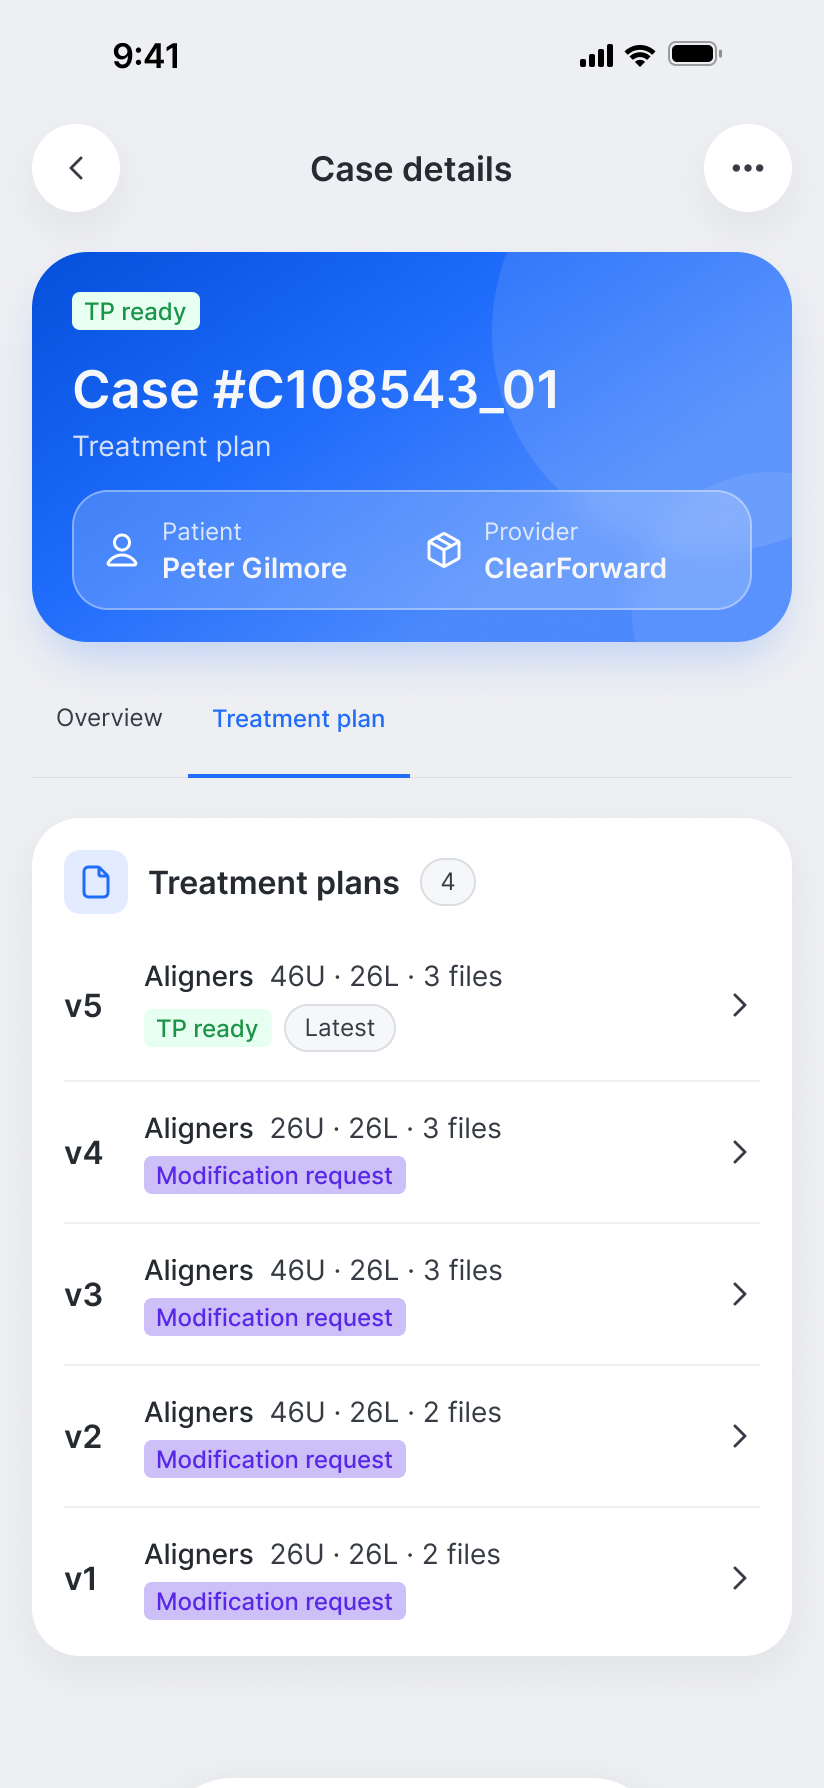
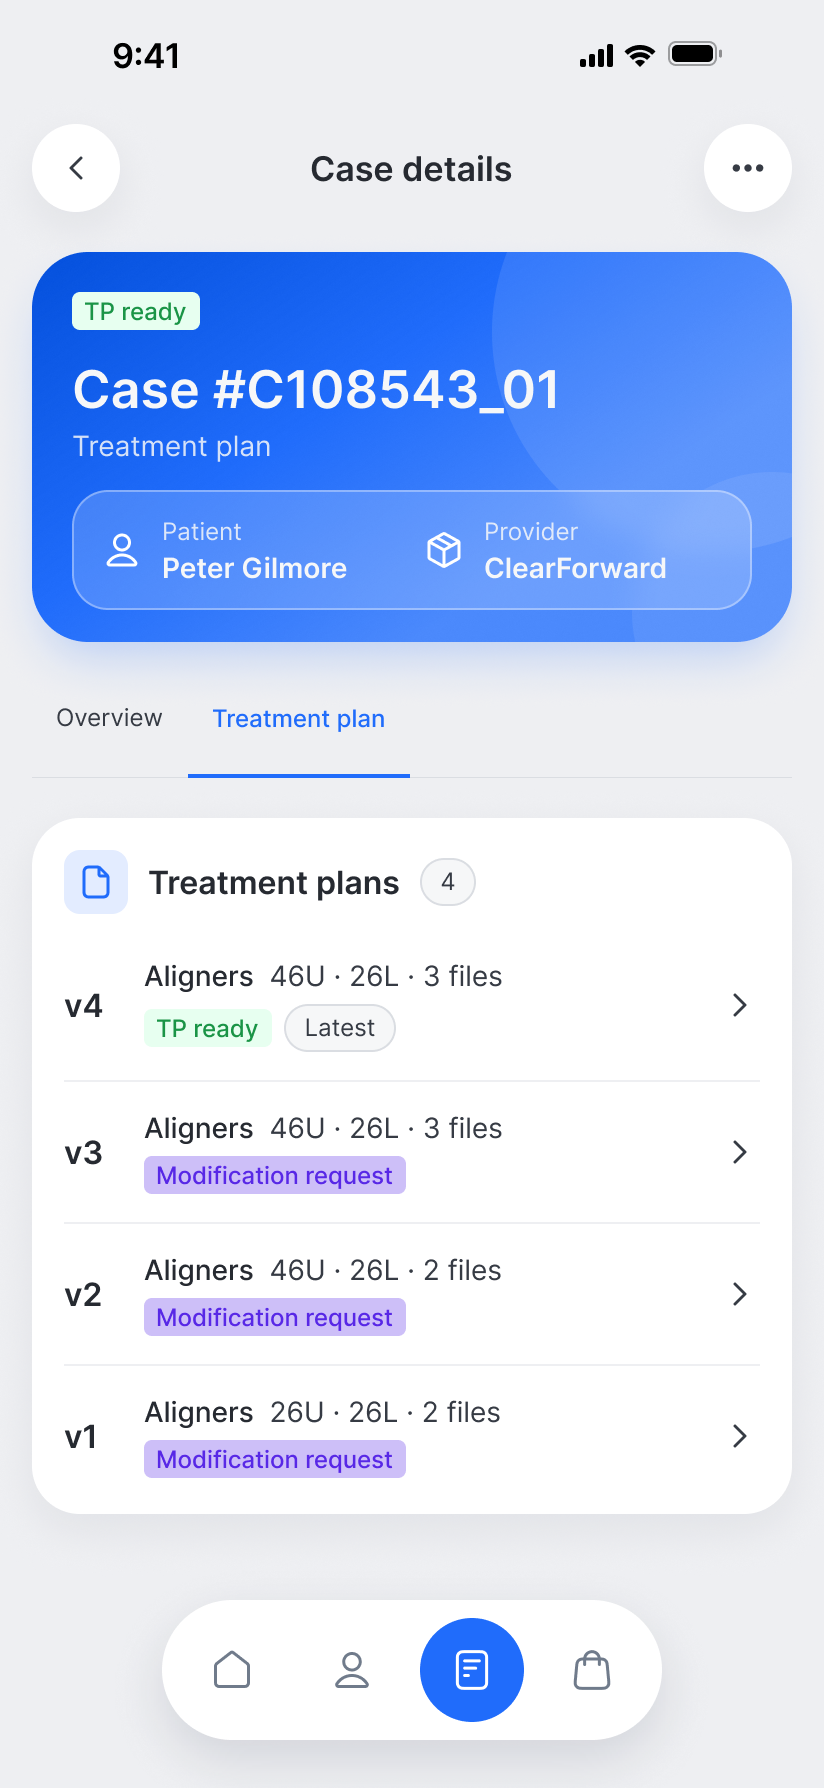
ClearForward: re-export mobile screens at equal height

diff --git a/src/data/projects.js b/src/data/projects.js
@@ -241,7 +241,7 @@ export const projects = {
           title: 'Mobile App',
           paragraphs: [
             "Doctors are not always at a desk, so I also designed a mobile app that brings the most important parts of the portal to their phone, using the same design system as the web portal. A floating bottom navigation keeps Home, Patients, Cases, and the Store one tap away.",
-            "Every case opens on a bold header card with its status, number, and type, plus quick links to the patient and the provider. The Overview tab puts the latest notes from the clinician first, followed by the key case details and the clinical photos, while the Treatment plan tab lists every version of the plan, from the latest one down to v1, each with its aligner count, files, and status, so the doctor can see the full history of a case at a glance.",
+            "Every case opens on a bold header card with its status, number, and type, plus quick links to the patient and the provider. The Overview tab puts the latest notes from the clinician first, followed by the key case details such as the doctor, dental group, and practice, while the Treatment plan tab lists every version of the plan, from the latest one down to v1, each with its aligner count, files, and status, so the doctor can see the full history of a case at a glance.",
             "Opening a plan shows a version switcher, the number of upper and lower aligners, an animation link that can be opened or shared with the patient, and the notes from the clinician. Request changes and Approve plan stay pinned at the bottom of the screen, so the decision is always within reach of the thumb. The patient details screen brings together the patient's personal information, all of their cases with a clear status, and their photos, with a quick way to add new ones straight from the phone.",
           ],
           galleryAfter: [[19, 20], [21, 22]],
